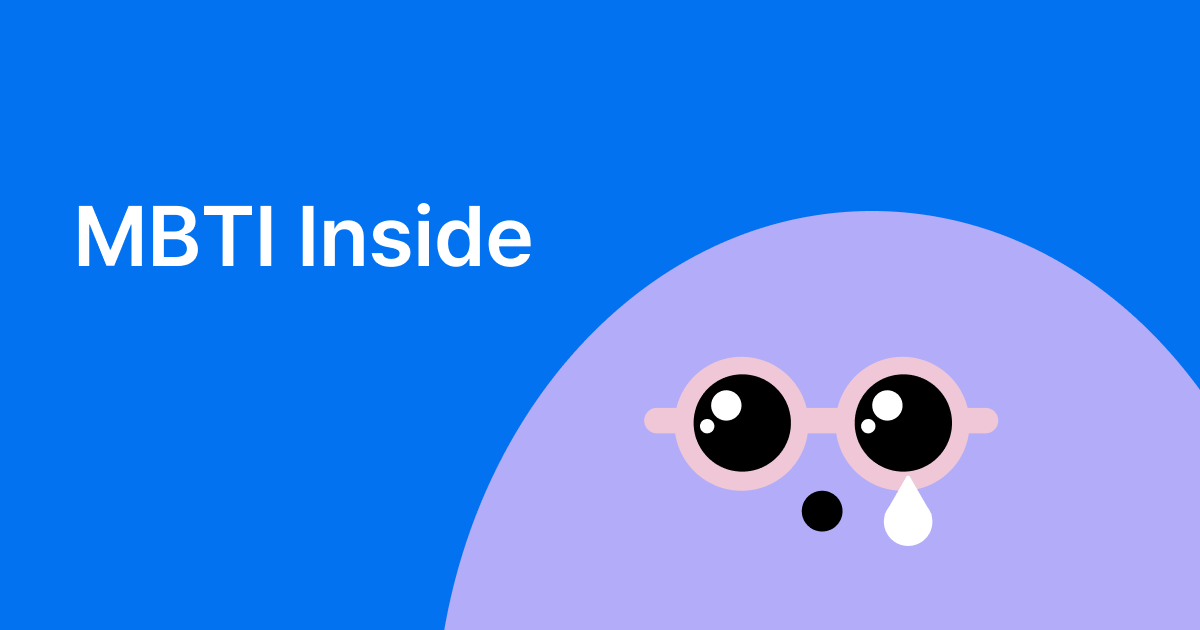
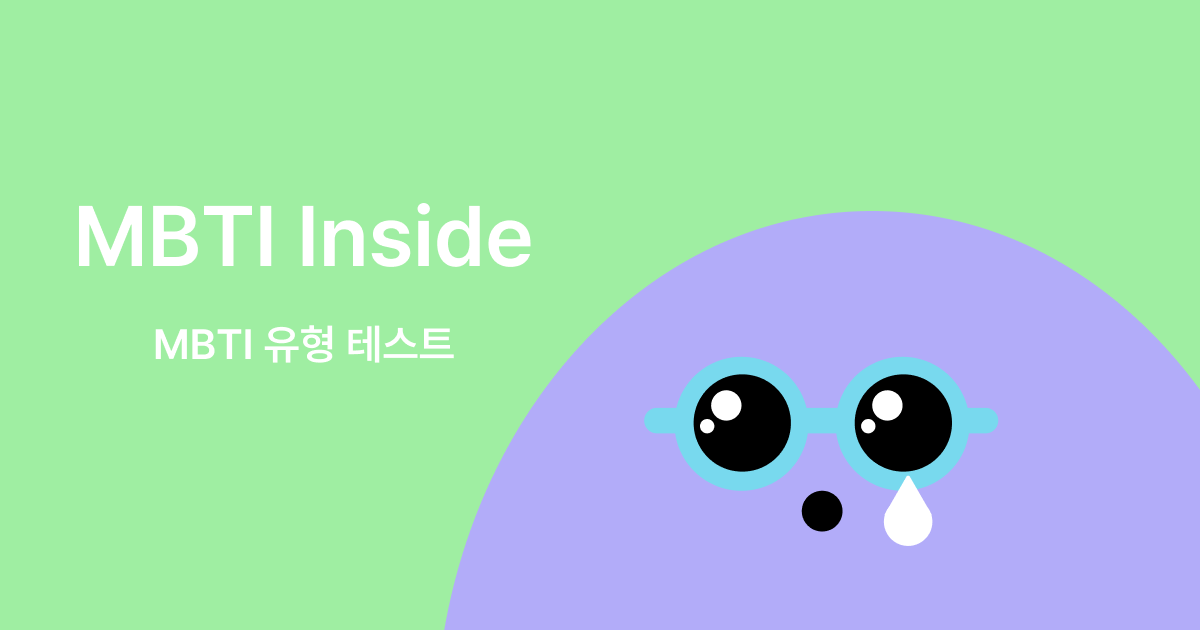
style: 로고 및 파비콘 스타일 수정 MBTI-Inside/todo#11

diff --git a/index.html b/index.html
@@ -3,7 +3,7 @@
   <head>
     <meta charset="utf-8" />
     <link href="/dist/output.css" rel="stylesheet" />
-    <link rel="icon" href="public/areUt_icon.png" />
+    <link rel="icon" href="public/favicon.png" />
     <meta name="viewport" content="width=device-width, initial-scale=1" />
     <meta name="theme-color" content="#000000" />
     <meta
@@ -29,7 +29,7 @@
     <meta name="twitter:image" content="public/MBTI-Inside_thumbnail.png" />
     <meta name="twitter:image:alt" content="MBTI-Inside thumbnail image" />
 
-    <link rel="apple-touch-icon" href="public/areUt_logo192.png" />
+    <link rel="apple-touch-icon" href="public/logo192.png" />
     <!--
       manifest.json provides metadata used when your web app is installed on a
       user's mobile device or desktop. See https://developers.google.com/web/fundamentals/web-app-manifest/
